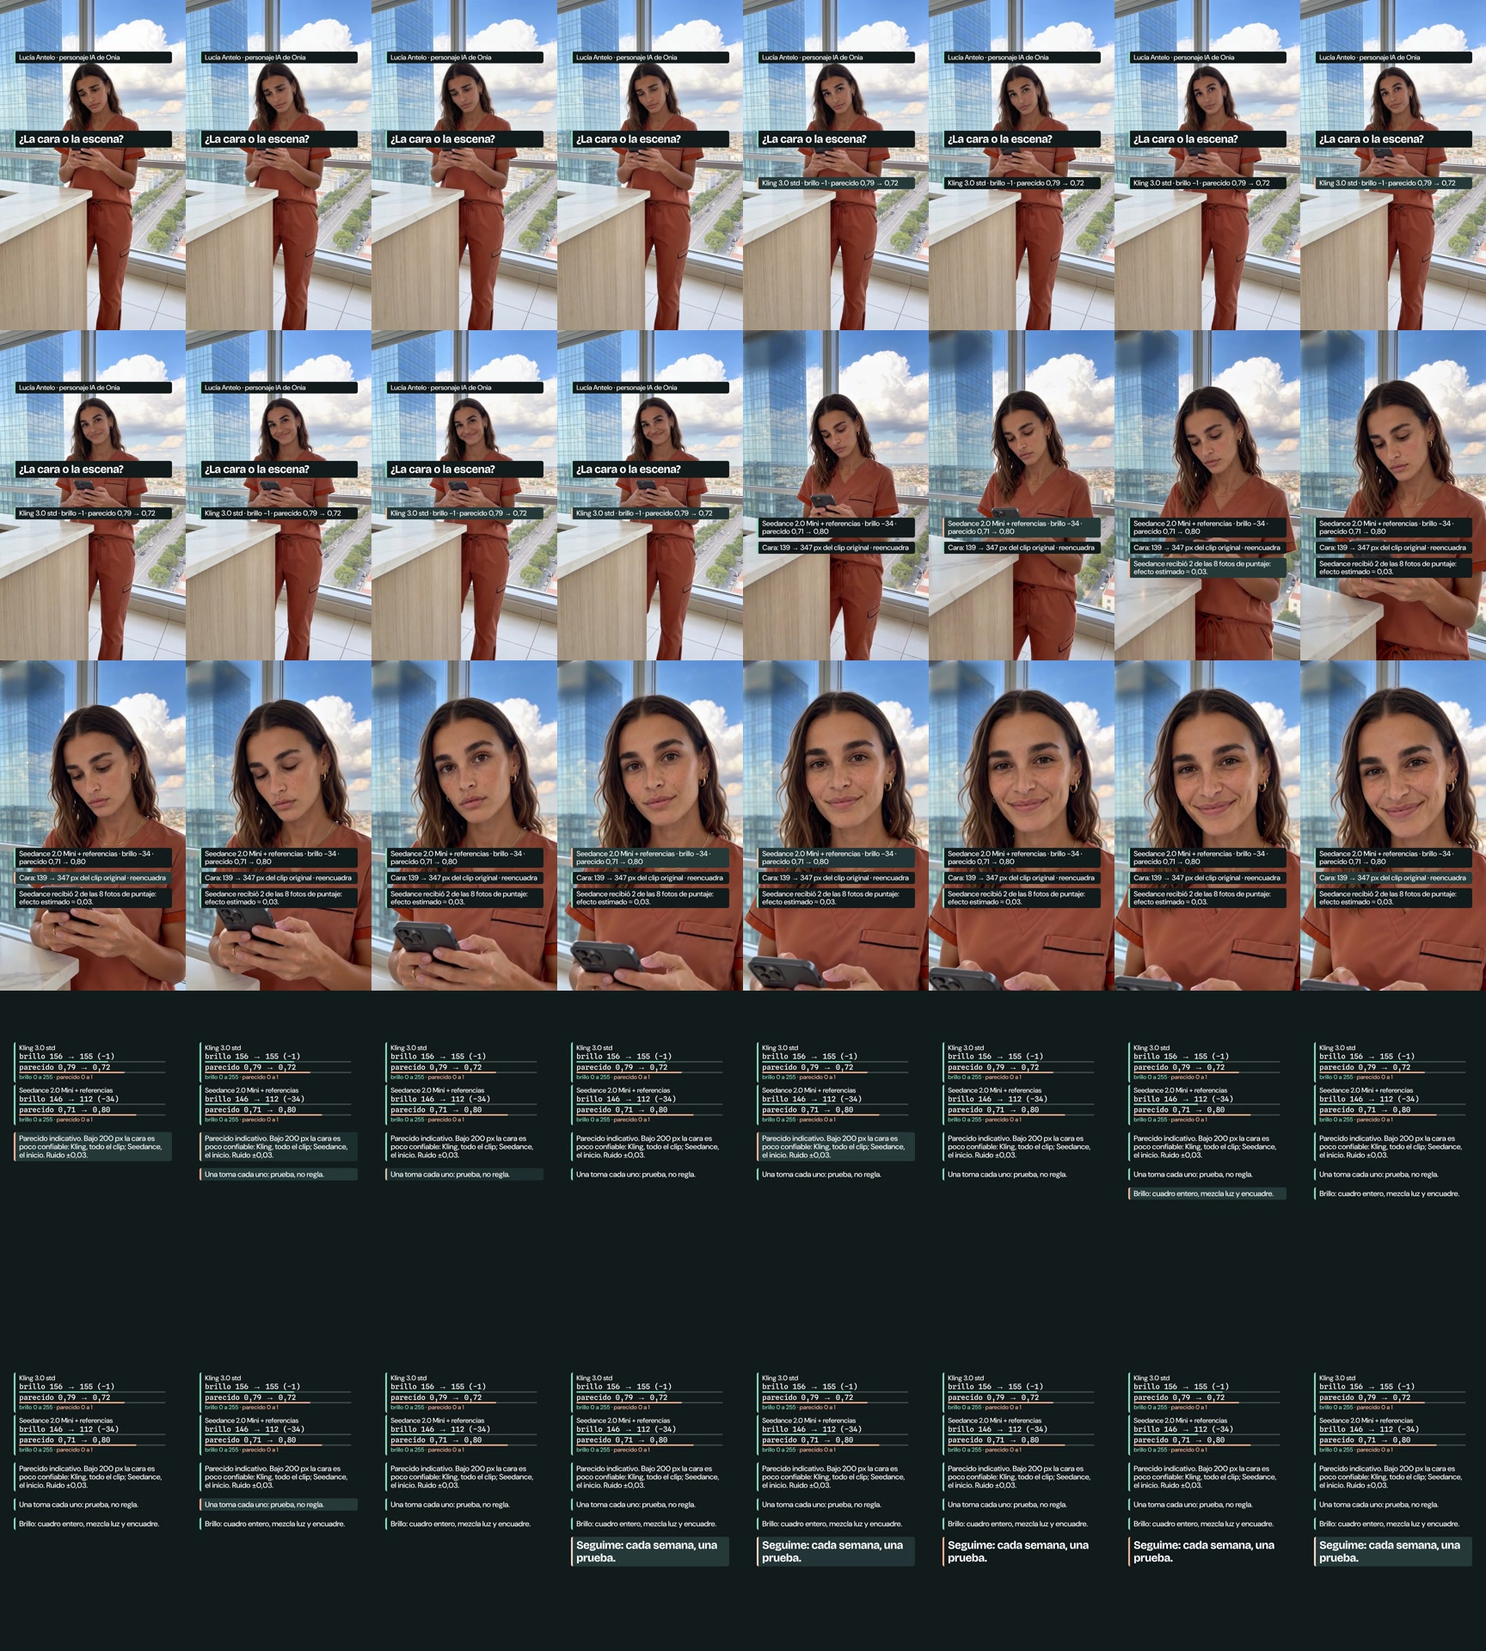
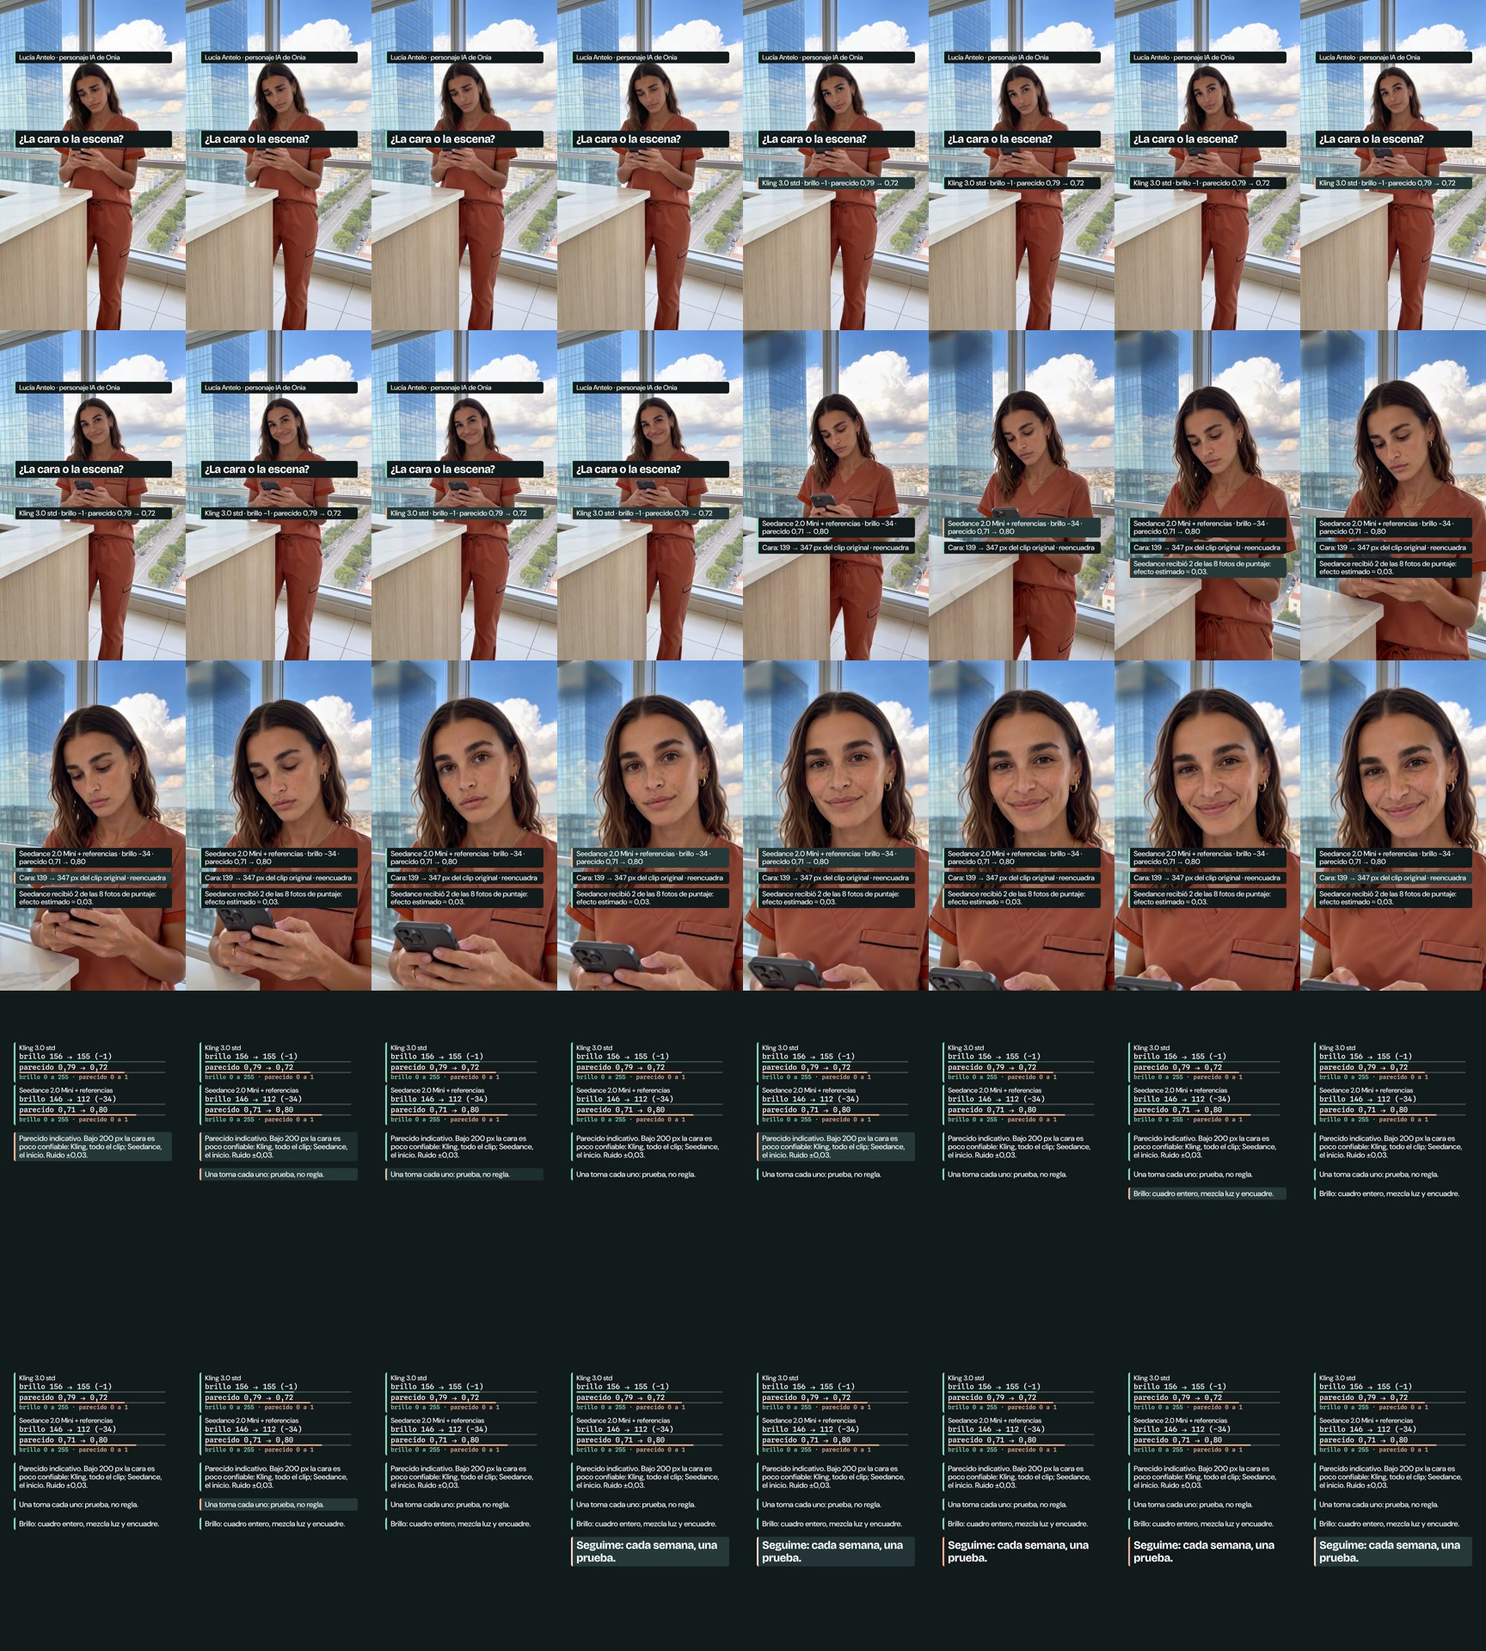
chore: auto-sync 2026-10-11 07:31

diff --git a/videos/lucia-p9-luz-cara/README.md b/videos/lucia-p9-luz-cara/README.md
@@ -11,13 +11,13 @@ Composición HyperFrames MUDA: 1080×1920, 24 fps, 480 cuadros / 20 s. Dos tomas
 | Dato | Valor |
 |---|---|
 | Archivo | `out/p9-final-1080x1920.mp4` (`out/` y `renders/` no van a git) |
[2 lines of base64/hex data omitted]
 | Video | H.264 High, yuv420p, 1080×1920, 24 fps, 480 cuadros, 20,000 s |
 | Audio | AAC LC 48 kHz estéreo, SILENCIO: volumedetect mean −91,0 dB / max −91,0 dB (`qa/aac-silencio.txt`) |
-| Tamaño | @@TAM@@ |
-| `index.html` | md5 `@@MD5@@`, idempotente (dos builds, mismo md5; `qa/idempotencia.txt`) |
+| Tamaño | 21,0 MB (8,4 Mb/s) |
+| `index.html` | md5 `81658e47cb092712732b9d6aa8ece78e`, idempotente (dos builds, mismo md5; `qa/idempotencia.txt`) |
 | Fuentes | `assets/m1.mp4` y `assets/m4-full.mp4` (hardlinks a los originales, 720×1280, 145 cuadros; SHA en `qa/specs-fuentes.txt`); nunca el proxy |
-| Render | `hyperframes@0.8.142`, `--quality high -f 24`, @@TRENDER@@, captura por pantallazo (Chromium completo, sin GPU); preview 360p real 37 s |
+| Render | `hyperframes@0.8.142`, `--quality high -f 24`, 1 min 31,9 s (el compilador avisa de keyframes dispersos en m1 y m4, 6,04 s; sin congelados: PSNR 37-39 dB y quietud máxima 0,125 s en píxeles), captura por pantallazo (Chromium completo, sin GPU); preview 360p real 37 s |
 
 Línea de tiempo: m1 0–6 s · empuje rígido 5,75–6,0 s · m4 6,0–11,54 s · empuje 11,54–11,79 s · placa 11,79–20 s.
 Entradas (`plan.json → eventos`; todas con fundido + acento de riel y tarjeta): dato de Kling 1,5 s · aviso de las fotos recibidas por Seedance 6,5 s · placa con las dos filas 11,79 s · **límite de cara 11,85 s · «Una toma cada uno» 12,35 s · límite del brillo 14,65 s · CTA 17,4 s** (CTA a plena opacidad desde 17,46 s: 2,54 s ≥ 2,4). Acentos intermedios (13,5 · 16,0 · 19,1 s) para no dejar más de 2 s sin evento.
@@ -29,8 +29,8 @@ Entradas (`plan.json → eventos`; todas con fundido + acento de riel y tarjeta)
 | **H1** | ALTA | **Resuelto** | La pantalla dice «Parecido indicativo. Bajo 200 px la cara es poco confiable: Kling, todo el clip; Seedance, el inicio. Ruido ±0,03.» (19 palabras) y la etiqueta «Cara: 139 → 347 px del clip original · reencuadra». El pie lleva la frase propuesta por el revisor. Evidencia: `qa/cara-px-fuente.txt` (corrida propia de `face-gate.sh` sobre los dos originales, 7 puntos por clip: Kling 115-120 px en 7 de 7; Seedance 139 y 181 px y de 243 a 347 desde los 2 s). El build valida «todo el clip / el inicio» contra la medición sin refs; las mutaciones rechazan «Seedance parte de 139 px» como única mención de tamaño (pantalla y pie). |
 | **H2** | MEDIA | **Resuelto (con una reserva, ver dudas)** | La placa ya no es una pared: desde 11,79 s solo las dos filas; las notas entran **de a una**, cada una con su acento (riel naranja + tarjeta teñida 0,55 s): límite de cara 11,85 s → «Una toma cada uno: prueba, no regla.» 12,35 s → «Brillo: cuadro entero, mezcla luz y encuadre.» 14,65 s → CTA 17,4 s. Lectura nueva de la placa: 33 palabras (19 + 7 + 7) + 5 del CTA en 8,2 s (4,6 palabras/s; antes 7,6). Cada texto cumple 0,35 s/palabra + 0,3 desde su propia entrada (`qa/ventanas.txt`: límite 8,04 s con 6,95 pedidos; toma 7,54/2,75; brillo 5,25/2,75; CTA 2,54/2,4). Huecos verticales iguales (40 px) y flecha en DM Sans (ya no diminuta). |
 | **H3** | MEDIA | **Resuelto** | Titular «¿La cara o la escena?» (mismas 5 palabras, pregunta). |
-| **H4** | MEDIA | **Resuelto en el plan; la voz sigue sin existir** | `guion-voz.txt` sin cifras ni decimales hablados. L1-L3 terminan a 5,848 s (el corte a Seedance es 5,75-6,0 s) y L4 empieza a 6,083 s. L5, L6 y L7 empiezan a 11,96 / 14,29 / 17,33 s y sus notas entran a +0,39 / +0,36 / +0,07 s (`qa/alineacion-voz.txt`). Dos desvíos del texto de la madre, por el cronograma: L3 sin «3.0 std» (con él, L3 terminaba a 6,32 s) y L4 con «el encuadre se acerca» (sin eso, L5 empezaba a 10,5 s, antes de la placa). 311 caracteres (298 + 6 saltos + …; cupo 381), sube de 304 por esa L4. |
-| **H5** | MEDIA | **Resuelto** | Desenfoque + oscurecido fijo (`backdrop-filter`, máscara radial; esquina superior izquierda x 0-440, y 0-290) dentro de `#overlay-m4`: viaja con m4 y no toca la cara ni la zona del PSNR (y 400-700). Pie: «Seedance 2.0 Mini inventó un letrero en la torre (de 7 a 11,5 s): no existe. Lo oscurecí en el video.» (la segunda frase la agregó el editor). |
+| **H4** | MEDIA | **Resuelto en el plan; la voz sigue sin existir** | `guion-voz.txt` sin cifras ni decimales hablados. L1-L3 terminan a 5,848 s (el corte a Seedance es 5,75-6,0 s) y L4 empieza a 6,083 s. L5, L6 y L7 empiezan a 11,96 / 14,29 / 17,33 s y sus notas entran a +0,39 / +0,36 / +0,07 s (`qa/alineacion-voz.txt`). Dos desvíos del texto de la madre, por el cronograma: L3 sin «3.0 std» (con él, L3 terminaba a 6,32 s) y L4 con «el encuadre se acerca» (sin eso, L5 empezaba a 10,5 s, antes de la placa). 311 caracteres con saltos (cupo 381; la v1 tenía 304: sube por la L4 alargada). |
+| **H5** | MEDIA | **Resuelto** | Desenfoque + oscurecido fijo (`backdrop-filter`, máscara radial; esquina superior izquierda x 0-440, y 0-290) dentro de `#overlay-m4`: viaja con m4 y no toca la cara ni la zona del PSNR (y 400-700). Pie: «Seedance 2.0 Mini inventó un letrero en la torre (de 7 a 11,5 s): no existe. Lo difuminé en el video.» (la segunda frase la agregó el editor). |
 | **H6** | BAJA | **Resuelto** | Brillo en enteros: «brillo 156 → 155 (−1)» y «brillo 146 → 112 (−34)»; pastillas «brillo −1» y «brillo −34»; «de 0 a 255» en la escala de cada fila. El build comprueba que el redondeo cuadre (156→155 = −1; 146→112 = −34) contra la medición de luz. |
 | **H7** | BAJA | **Resuelto** | Cada fila lleva debajo de sus dos barras «brillo 0 a 255 · parecido 0 a 1», con el color de su barra. |
 | **H8** | BAJA | **Resuelto y ampliado** | Ver «Dato nuevo» abajo: Seedance recibió 3 imágenes de referencia, 2 de ellas entre las 8 fotos con que se mide; Kling, ninguna. En pantalla (aviso de ≤ 12 palabras) y en el pie. |
@@ -44,20 +44,54 @@ Entradas (`plan.json → eventos`; todas con fundido + acento de riel y tarjeta)
 - Medición independiente: `hermes-content/references/modelos/lucia/v4/prueba-motores-20261008/medicion-sin-refs-entrada-20261011.txt` (método: `.claude/skills/lucia/scripts/parecido_sin_refs.py`, ArcFace buffalo_l contra el centroide de SOLO las 6 fotos que Seedance no recibió, con matriz cruzada y tres clips de control sin entradas). Contra esas 6 fotos el parecido de Seedance baja de 0,707–0,801 a 0,673–0,761 (B−A media −0,042), pero casi todo es efecto del subconjunto (R2, R4 y R8 puntúan bajo en todos los clips: los controles caen −0,017 con el mismo subconjunto). Exceso atribuible a la fuga: **−0,026 ≈ 0,03, dentro del ruido de ±0,03**. La señal individual existe (coseno a R1/R3 +0,126 sobre las otras seis, contra +0,03 a +0,05 en controles) pero se diluye en el centroide de 8.
 - Decisión de la madre: no se cambian los números de pantalla (0,71 → 0,80 siguen siendo los de PROCEDENCIA l.97); se agrega la divulgación. El build lee el archivo anterior y valida «2 de las 8», las 3 referencias y el «≈ 0,03» (`scripts/build.mjs`); la mutación que borra la divulgación (pantalla o pie) se rechaza.
 
-## Lo que se vio (@@VISTO_RESUMEN@@)
+## Lo que se vio (hoja 2 fps de los 40 cuadros del master y cuadros a resolución completa; preview 360p mirado antes)
 
-@@VISTO@@
+Mirado: preview 360p real (3 veces: scrim de degradado, scrim de desenfoque y versión final) + en el master la hoja de 2 fps completa (`qa/contacto-2fps.jpg`, 40 cuadros) y a resolución completa los cuadros 0, 38, 156, 160, 182, 230, 274, 283, 286, 290, 297, 300, 324, 352, 356, 384, 418, 424 y 479 (entrada de cada nota, 6-11,5 s con el desenfoque, placa completa, CTA). Recortes a resolución completa del desenfoque en los cuadros 182 (7,6 s), 230 (9,6 s) y 274 (11,4 s).
+
+- **Cuadro 0 (0 s):** rótulo «Lucía Antelo · personaje IA de Onia» (40 px, y 300-368) y título «¿La cara o la escena?» (y 760-858) sobre m1 en movimiento; la pastilla del dato NO está.
+- **Dato de Kling:** entra a 1,5 s, a plena opacidad en 1,583 s: «Kling 3.0 std · brillo −1 · parecido 0,79 → 0,72». Primer número antes de 3 s.
+- **Empuje m1 → m4 (5,75-6,0 s):** rígido; rótulo y título salen con m1.
+- **m4 (6,0-11,54 s):** dato (y 1090-1206), reencuadre en una línea (y 1230-1300, «Cara: 139 → 347 px del clip original · reencuadra») y, desde 6,5 s con fundido y acento, el aviso «Seedance recibió 2 de las 8 fotos de puntaje: efecto estimado ≈ 0,03.» (y 1324-1440). Ninguna pastilla toca la cara (margen mínimo 59 px). **Letrero de la torre:** en la v1 se leía «DMOSS» desde ~7,1 s; en la v2 queda una mancha borrosa y más oscura sin letras en los tres recortes (7,6, 9,6 y 11,4 s), con borde suave, sin tocar el pelo ni la cara.
+- **Placa (11,79-20 s):** llega solo con las dos filas (flecha de trazo visible, escala «brillo 0 a 255 · parecido 0 a 1» con el color de cada barra). Entran de a una: límite de cara 11,85 s (acento naranja + tarjeta teñida), «Una toma cada uno: prueba, no regla.» 12,35 s, «Brillo: cuadro entero, mezcla luz y encuadre.» 14,65 s, CTA 17,4 s; acentos intermedios a 13,5 y 16,0 s. Huecos verticales de 39,6 a 40,3 px. Sin cortes ni solapes; CTA y 1256-1428.
+- **Zona segura (píxeles del master, `qa/zona-segura-pixeles.txt`):** pastillas y 300-1439, placa y 300-1427; nada sobre y 292 ni bajo 1490. El desenfoque de la esquina (y 0-290) es imagen retocada, no texto ni pastilla.
+- **Defectos hallados en esta ronda y corregidos antes del master:** (1) scrim de degradado negro (primer preview): se veía como un óvalo negro, se cambió por desenfoque con máscara; (2) 1.ª render de la v2: la flecha de DM Sans seguía chica y el «0» de DM Sans en «brillo 0 a 255» se leía «O»: flecha SVG y escala en mono (2.ª render, la que es master).
+- **Observaciones sin corregir:** (a) de 6,5 a 11,5 s las tres pastillas de m4 tapan de y 1090 a 1440 (parte de la mano y del teléfono); (b) en la placa, entre 11,79 y 17,4 s, queda vacío todo lo de abajo de y 1216-1428 (es la zona de la interfaz de Instagram: no se puede usar); (c) el límite y «una toma cada uno» entran con 0,5 s de diferencia (el límite no puede entrar antes de 11,79 s y la voz estimada fija la toma en ~12,35 s).
 
 ## Regla 15 («aire muerto», de `edicion-referentes`) y su exención
 
 La regla 15 no existe como tal en el skill del repo; se aplica el texto del encargo (mismo criterio que G5 v2): pausa de voz ≤ 0,3 s, ningún tramo quieto > 0,3 s **fuera de la lectura**, un evento cada ≤ 2,0 s y a lo sumo un hueco de voz ≥ 0,3 s por cada 10 s.
-- **Exención:** un texto cuenta «en lectura» durante su ventana (0,35 s/palabra + 0,3 s desde que entra), y un tramo quieto dentro de esa ventana no cuenta como aire. Con la exención el mayor tramo quieto es **0,000 s** (DOM, `qa/aire.txt`) y 0,083 s en píxeles (`qa/aire-pixeles.txt`).
+- **Exención:** un texto cuenta «en lectura» durante su ventana (0,35 s/palabra + 0,3 s desde que entra), y un tramo quieto dentro de esa ventana no cuenta como aire. Con la exención el mayor tramo quieto es **0,000 s** (DOM, `qa/aire.txt`) y 0,125 s en píxeles (`qa/aire-pixeles.txt`).
 - **Dato real sin exención** (cuadro a cuadro del DOM): **1,500 s** de mayor tramo igual (v1: 1,708 s); en los clips el movimiento es el de la fuente (el revisor midió que no hay quietos de 0,13 s). Es la placa, quieta entre entradas, y se cumple por la exención (cada nota está dentro de su ventana de lectura). Los «eventos» son entradas reales de texto (fundido + 18 px + acento) y acentos de riel (borde de 10 px y tarjeta teñida): 17 eventos, hueco máximo 1,700 s.
 - Voz (no medible sin voz): pausas estimadas 0,213–0,235 s; el único hueco ≥ 0,3 s es la cola del CTA (0,725 s, de 19,3 a 20,0 s).
 
 ## Gates y evidencia (exit codes en `qa/RESUMEN-gates.txt`)
 
-@@GATES@@
+| Gate | Exit | Resultado |
+|---|---:|---|
+| `build.mjs` SIN `--borrador` (x2) | 0 / 0 | datos, pie y voz validados contra PROCEDENCIA l.97, la medición de luz del 11-oct y la medición sin refs; 311 caracteres con saltos (cupo 381), 480 cuadros; idempotente (mismo md5) |
+| `master-ready.mjs` | 0 | «Fuentes completas; apto para comenzar QA/render» |
+| `voz.mjs` / `retemporizar.mjs` | 0 / 0 | cronograma ESTIMADO a 17 car/s; pausas 0,213-0,235 s; L1-L3 terminan a 5,848 s, L4 empieza a 6,083 s; tabla en `qa/alineacion-voz.txt` |
+| `ventanas.mjs` | 0 | 12 textos, cada uno con su ventana contada desde su propia entrada; CTA 2,542 s (mín. 2,4); aviso 5,04 s (mín. 4,5) |
+| `hueco-tarjetas.mjs` | 0 | 0 de 480 cuadros sin tarjeta (las filas de la placa cuentan como tarjeta) |
+| `eventos.mjs` | 0 | 17 eventos, hueco máximo 1,700 s (entradas y acentos) |
+| `aire.mjs` | 0 | quieto fuera de lectura 0,000 s (DOM); sin exención 1,500 s |
+| `costuras.mjs` | 0 | 2 costuras de 6 cuadros, separación 0,000 px |
+| `medir-dom.mjs` | 0 | 1718 cajas / 480 cuadros, 0 fallos; margen mentón-texto 59 px; dato a 1,583 s; CTA 2,542 s |
+| `grep-prohibidas.mjs` | 0 | 0 coincidencias (el texto nuevo no casa con la regex «las/todas las/ambas caras… 200») |
+| `lucia-prohibidas.mjs pie.txt guion-voz.txt` | 0 | 0 coincidencias (también sobre el texto de pantalla) |
+| `validar-mutaciones.mjs` | 0 | **22** alteraciones rechazadas, entre ellas «Seedance parte de 139 px» como única mención de tamaño (pantalla y pie), el aviso de fotos recibidas borrado o con otro efecto (pantalla y pie), el scrim ausente, el letrero ausente del pie, voz con decimales y L3 que vuelve a cruzar el corte |
+| `verificar-auditor.mjs` | 0 | regresión del reporte |
+| gates `--estatico` (5) | 0 | reconfirmados |
+| `hyperframes check` (0.8.142, `npx -y`) | 0 | 0 errores · 3 avisos `nested_structure_needs_subcomposition` (no frenan, como G5) · layout 0 problemas / 9 muestras · runtime 0/0 · motion 0/0 · contraste 38/38 AA |
+| preview 360p real | 0 | `qa/p9-preview-360p.mp4`, 360×640, 24 fps, 480 cuadros, 20,000 s; mirado antes del master |
+| render high + mux AAC | 0 / 0 | ver «Master» |
+| `pixeles.mjs psnr-clips` | 0 | mínimo 37,06 dB (m1: 38,82 / 38,90 / 38,88; m4: 38,32 / 37,54 / 37,06), umbral 35; el desenfoque cae fuera de la zona medida (y 400-700) |
+| `pixeles.mjs vacios` / `aire` | 0 / 0 | 480 cuadros, 0 planos; quietud fuera de lectura 0,125 s (tope 0,3) |
+| ArcFace master ↔ fuente (`face-gate.sh`) | 0 | 8 pares: diferencia máxima **0,014** contra la fuente escalada y **0,017** contra la nativa de 720p (regla ≤ 0,02); `qa/arcface-final.txt` dice con cuál se compara |
+| Tamaño de cara de las fuentes (`face-gate.sh`, 14 cuadros) | 0 | reproduce la tabla de la revisión; `qa/cara-px-fuente.txt` |
+| Layout DOM | 0 | `qa/layout-dom.txt` (alturas, líneas y huecos reales); sustituye a `tipografia-estimada.txt` (necesitaba fontTools; no se instala) |
+
+La detección de caras sobre el master (`qa/caras-detectadas-master.txt`) es la de la v1 con una nota: rótulo, título y datos de Kling y de Seedance no se movieron, y el reencuadre y el aviso van más abajo del mentón; la separación de la v2 la cubre `medir-dom` (margen 59 px).
 
 ## Decisiones y cómo revertirlas
 
@@ -108,4 +142,17 @@ No se renderizó dos veces el master: NO se verificó que el SHA del MP4 sea rep
 
 ## Lo que quedó sin medir y dudas abiertas
 
-@@DUDAS@@
+1. **Verificador y revisión de esta v2:** los pone la madre. Ningún resultado de este README es aprobación visual ni permiso de publicar. Falta copiar el master a `videos/lucia-entrega/` (como g1-g5) cuando se apruebe.
+2. **Voz: NO existe.** El master es mudo (AAC en silencio). Cronograma ESTIMADO a 17 car/s sobre `guion-voz.txt` (311 caracteres con saltos; 305 sin ellos). Dos desvíos del texto de la madre por el cronograma: L3 sin «3.0 std» (con él terminaba a 6,32 s, después del corte) y L4 con «el encuadre se acerca» (con la L4 de 72 caracteres, L5 empezaba a 10,5 s, antes de que exista la placa; la alternativa es un silencio de ~1,4 s, que sumado a la cola del CTA daría dos huecos ≥ 0,3 s en los últimos 10 s). Cuando haya voz real hay que medir las pistas, retemporizar y corregir las entradas (`plan.json → eventos`, `voz: n`).
+3. **Densidad de lectura:** la placa pasó de 63 palabras a la vez (7,6 palabras/s) a 33 de lectura nueva + 5 del CTA en 8,2 s (4,6/s), pero la lectura **secuencial estricta** de las tres notas (12,45 s) no cabe en 8,2 s: las ventanas se cumplen contando cada texto desde su propia entrada, con las notas solapadas, como pidió la madre. Además el aviso de fotos recibidas dejó el tramo de Seedance en 29 palabras en 5,75 s (5,0/s; antes 17 palabras, 3,0/s); en la placa habría sumado 12 palabras (45, por encima del tope de ≈ 34). Alternativas si pesa: pasar el aviso a la placa fundido con «Una toma cada uno» o recortar la nota del brillo.
+4. **«fotos de puntaje»** (texto de la madre) puede no decirle nada al espectador; «fotos con que se mide» cabe en las mismas 12 palabras. No se cambió.
+5. **El 0,80 sigue favorecido en pantalla:** la divulgación dice «efecto estimado ≈ 0,03» (exceso −0,026 de la medición sin refs, dentro del ruido de ±0,03). La señal por foto (coseno a R1/R3 +0,126 sobre las otras seis) no se muestra. Los números de pantalla (0,71 → 0,80) son los de PROCEDENCIA l.97, por decisión de la madre.
+6. **Desenfoque del letrero:** `backdrop-filter` funciona en el modo «screenshot» de este render (preview y master). No se probó con `chrome-headless-shell` (modo beginFrame): si se renderiza así hay que mirar los cuadros 7-11,5 s otra vez.
+7. **Instagram:** no se simuló la interfaz. A 390 px de ancho, el texto de 34 px de la escala queda en ~12 px (legible, justo).
+8. **Pie:** el editor agregó «Lo difuminé en el video.» tras la frase del letrero (honestidad sobre el retoque).
+9. El render no es reproducible bit a bit (el `index.html` sí). El compilador de HyperFrames avisa de keyframes dispersos en m1 y m4 (6,04 s) y el render de un `404` «non-blocking» (probablemente el favicon); no hay congelados ni cuadros rotos.
+10. **Ambo (H10):** sin acción, dentro del canon (`LUCIA.md` §0); la pista visual sigue ahí y no hay otra toma pagada con otra ropa.
+11. `scripts/estimar-tipografia.py` no se corrió (falta `fontTools`; no se instala nada); lo sustituye la medida DOM de `qa/layout-dom.txt`.
+12. Contraste: `hyperframes check` midió 38/38 AA; no hay medición propia fuera de ese gate.
+13. Avisos de estilo de `hyperframes check` (3× `nested_structure_needs_subcomposition`): no frenan; no se refactorizó a subcomposiciones.
+14. El render se hizo en modo «screenshot» porque el Chromium completo no expone `HeadlessExperimental` (PSNR 37-39 dB y ArcFace ≤ 0,017 muestran que no degradó la imagen).
